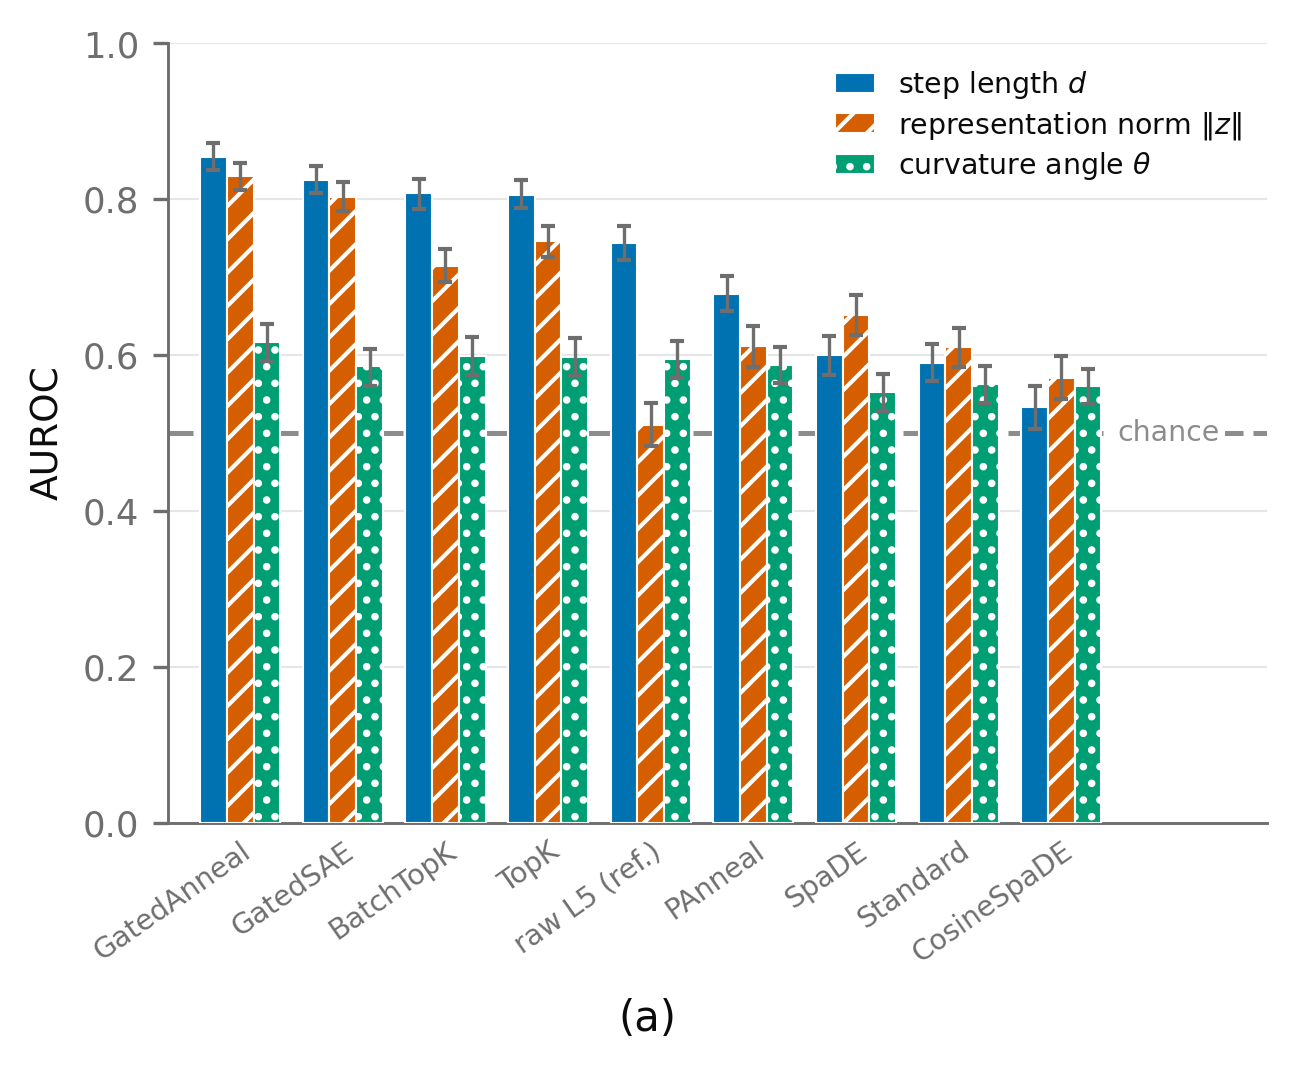
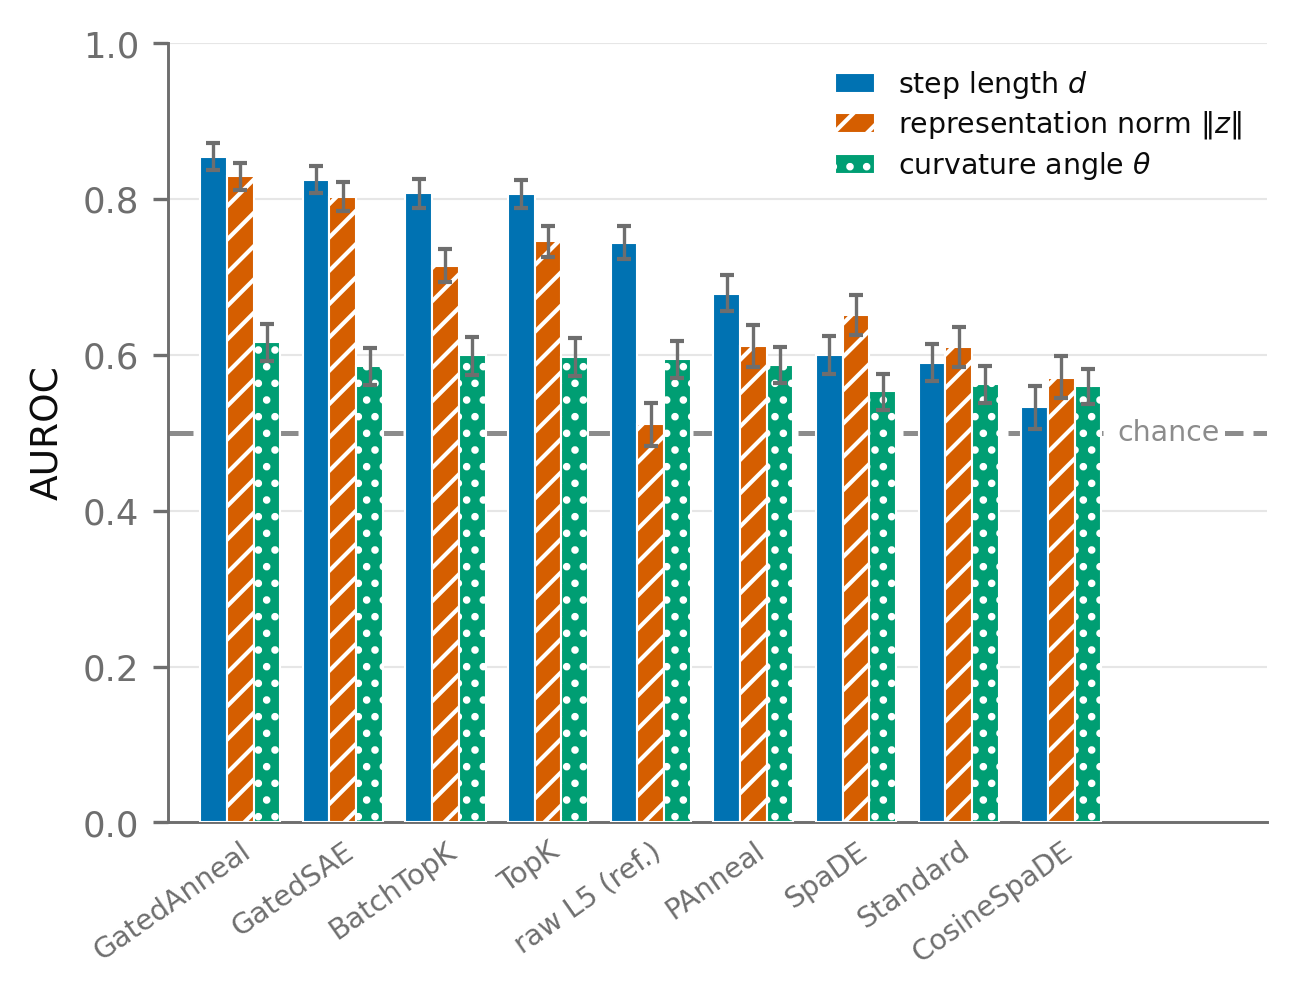
Drop the panel letter from the quantity ablation
The figure has been one panel since the localization half moved to the CSV, so
`letters_below` was printing a lone "(a)" under a chart with nothing to enumerate
against. Both variants re-rendered; the CSVs are byte-identical.

diff --git a/analysis/violation_divergence/changepoint_localization/quantity_ablation.py b/analysis/violation_divergence/changepoint_localization/quantity_ablation.py
@@ -55,7 +55,7 @@ from matplotlib import pyplot as plt
 
 from spade.common.study import study_dir
 from spade.figures.paper_style import (
-    MUTED, NULL, OKABE_ITO, REFERENCE_SPACE, apply_style, letters_below, save_figure)
+    MUTED, NULL, OKABE_ITO, REFERENCE_SPACE, apply_style, save_figure)
 from spade.l0_operating_point import roster
 from spade.move_legality import localize
 
@@ -273,7 +273,6 @@ def draw(table: pd.DataFrame, name: str, camera_ready: bool) -> Path:
     ax.legend(loc="upper right", fontsize=6.8, frameon=False, handlelength=1.4,
               labelspacing=0.3)
     fig.tight_layout()
-    letters_below(fig, [ax])
     return save_figure(fig, HERE / "figures" / name, camera_ready)
 
 
